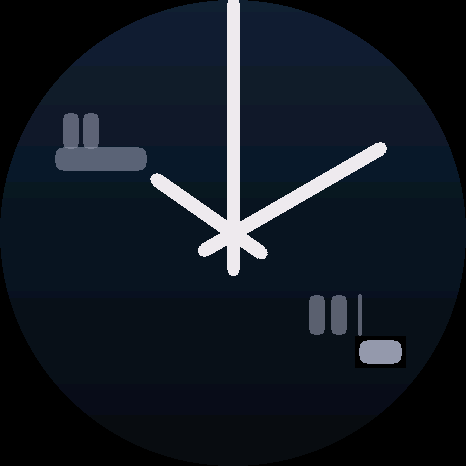
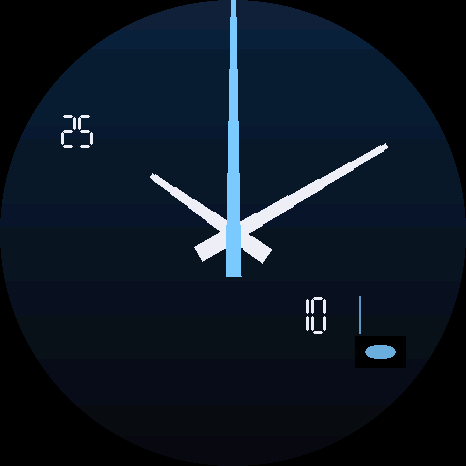
fix: revise templates — clean role-aware original art, 3 solid bases
The generic blanket art made every asset a gray blob (ugly/broken). Rewrite
the generator to be role-aware: background→gradient, pointer→tapered hand,
digit atlas→real 7-seg numerals, marker ring→thin ticks, ambiguous decor→
hidden. Keep only the 3 bases that regenerate cleanly + fully original
(skip:0): Aurora (gradient), Analog (hands+gradient+digit), Data (hands+
complications). Dropped Dual-phase (466px hands don't fit slot → skipped,
retained CMF art) and Digits time (big-digital on black didn't render).

All same-footprint. TEMPLATES list trimmed to the 3.

diff --git a/wfweb/scripts/simplify-templates.ts b/wfweb/scripts/simplify-templates.ts
@@ -1,7 +1,7 @@
-// Gera versões GENÉRICAS/ORIGINAIS dos templates: troca CADA asset do pool por uma forma simples
-// (gradiente p/ fundo grande, barra p/ sprite alto/estreito = ponteiro, retângulo neutro no resto).
-// Substitui o pool INTEIRO (inclui atlas de dígitos), então não sobra arte oficial da CMF.
-// Same-footprint (arte simples comprime pequeno). Re-renderiza o thumbnail do dial modificado.
+// Gera arte ORIGINAL e LIMPA pros templates, ciente do PAPEL de cada asset:
+//   fundo → gradiente | ponteiro → mão afilada | atlas de dígitos → numerais 7-seg reais |
+//   anel de marcas (pequeno, repetido) → tick fino | decorativo ambíguo → transparente.
+// Tudo same-footprint (arte simples comprime pequeno). Re-renderiza thumbnails. Sem arte da CMF.
 import { readFileSync, writeFileSync } from "node:fs";
 import zlib from "node:zlib";
 import { parseStructured, scanAssets } from "../src/codec/parse.js";
@@ -9,86 +9,129 @@ import { rgbaToRasterForCf } from "../src/codec/rgb565.js";
 import { lz4CompressBest, lz4CompressLiteralsOnly } from "../src/codec/lz4.js";
 import { writeU32le } from "../src/codec/bytes.js";
 import { renderAt } from "../src/codec/render.js";
+import type { Layer } from "../src/codec/types.js";
 
 type RGB = [number, number, number];
-const PALETTE: Record<string, [RGB, RGB]> = {
-  "290": [[46, 50, 82], [18, 20, 34]],   // indigo
-  "309": [[64, 22, 22], [16, 16, 20]],   // maroon
-  "353": [[32, 32, 36], [12, 12, 14]],   // graphite
-  "275": [[18, 32, 52], [10, 12, 20]],   // navy
-  "376": [[36, 32, 28], [14, 12, 12]],   // warm charcoal
+const PAL: Record<string, [RGB, RGB, RGB]> = { // [topo, base, acento]
+  "290": [[38, 44, 92], [12, 14, 30], [120, 150, 255]],
+  "309": [[70, 24, 30], [14, 14, 20], [255, 120, 92]],
+  "353": [[26, 28, 36], [10, 10, 14], [220, 224, 235]],
+  "275": [[16, 34, 60], [8, 10, 18], [120, 200, 255]],
+  "376": [[30, 30, 34], [12, 12, 14], [255, 150, 70]],
 };
-const HAND: RGB = [232, 232, 238];
-const MARK: RGB = [148, 154, 170];
+const HAND: RGB = [235, 238, 245];
 
-function gradient(w: number, h: number, top: RGB, bot: RGB): Uint8ClampedArray {
-  const d = new Uint8ClampedArray(w * h * 4);
-  for (let y = 0; y < h; y++) {
-    const t = h <= 1 ? 0 : y / (h - 1);
-    const r = Math.round(top[0] + (bot[0] - top[0]) * t), g = Math.round(top[1] + (bot[1] - top[1]) * t), b = Math.round(top[2] + (bot[2] - top[2]) * t);
-    for (let x = 0; x < w; x++) { const o = (y * w + x) * 4; d[o] = r; d[o + 1] = g; d[o + 2] = b; d[o + 3] = 255; }
+function fillRoundRect(px: Uint8ClampedArray, W: number, H: number, x: number, y: number, w: number, h: number, r: number, c: RGB, alpha = 255) {
+  const x0 = Math.round(x), y0 = Math.round(y), x1 = Math.round(x + w), y1 = Math.round(y + h);
+  for (let yy = y0; yy < y1; yy++) for (let xx = x0; xx < x1; xx++) {
+    if (xx < 0 || xx >= W || yy < 0 || yy >= H) continue;
+    const dx = Math.min(xx - x0, x1 - 1 - xx), dy = Math.min(yy - y0, y1 - 1 - yy);
+    if (dx < r && dy < r) { const ex = r - dx, ey = r - dy; if (ex * ex + ey * ey > r * r) continue; }
+    const o = (yy * W + xx) * 4; const a = alpha / 255;
+    px[o] = Math.round(c[0] * a + px[o] * (1 - a)); px[o + 1] = Math.round(c[1] * a + px[o + 1] * (1 - a));
+    px[o + 2] = Math.round(c[2] * a + px[o + 2] * (1 - a)); px[o + 3] = Math.max(px[o + 3], alpha);
+  }
+}
+// dígito 7-seg (a,f,b,g,e,c,d)
+const SEG: Record<number, number[]> = { 0:[1,1,1,0,1,1,1],1:[0,0,1,0,0,1,0],2:[1,0,1,1,1,0,1],3:[1,0,1,1,0,1,1],4:[0,1,1,1,0,1,0],5:[1,1,0,1,0,1,1],6:[1,1,0,1,1,1,1],7:[1,0,1,0,0,1,0],8:[1,1,1,1,1,1,1],9:[1,1,1,1,0,1,1] };
+function drawDigit(px: Uint8ClampedArray, W: number, H: number, dw: number, dh: number, ch: number, c: RGB) {
+  const s = SEG[ch]; if (!s) return;
+  const m = Math.min(dw, dh);
+  const t = Math.max(2, Math.round(m * 0.14));                 // espessura
+  const padX = Math.round(dw * 0.22), padY = Math.round(dh * 0.12);
+  const x1 = padX, x2 = dw - padX, y1 = padY, y2 = dh - padY, ym = dh / 2;
+  const hbar = (xa: number, xb: number, y: number) => fillRoundRect(px, W, H, xa, y - t / 2, xb - xa, t, t / 2, c);
+  const vbar = (x: number, ya: number, yb: number) => fillRoundRect(px, W, H, x - t / 2, ya, t, yb - ya, t / 2, c);
+  if (s[0]) hbar(x1, x2, y1); if (s[1]) vbar(x1, y1, ym); if (s[2]) vbar(x2, y1, ym);
+  if (s[3]) hbar(x1, x2, ym); if (s[4]) vbar(x1, ym, y2); if (s[5]) vbar(x2, ym, y2); if (s[6]) hbar(x1, x2, y2);
+}
+function gradient(W: number, H: number, top: RGB, bot: RGB): Uint8ClampedArray {
+  const d = new Uint8ClampedArray(W * H * 4);
+  for (let y = 0; y < H; y++) { const t = H <= 1 ? 0 : y / (H - 1); const r = Math.round(top[0] + (bot[0] - top[0]) * t), g = Math.round(top[1] + (bot[1] - top[1]) * t), b = Math.round(top[2] + (bot[2] - top[2]) * t);
+    for (let x = 0; x < W; x++) { const o = (y * W + x) * 4; d[o] = r; d[o + 1] = g; d[o + 2] = b; d[o + 3] = 255; } }
+  return d;
+}
+function hand(W: number, H: number, c: RGB): Uint8ClampedArray {
+  const d = new Uint8ClampedArray(W * H * 4);
+  const cx = W / 2, baseW = Math.max(4, W * 0.5), tipW = Math.max(2, W * 0.14);
+  const tail = Math.round(H * 0.12); // pequena cauda além do pivô (base)
+  for (let y = 0; y < H; y++) {
+    const t = y / (H - 1);                       // 0 topo(ponta) .. 1 base
+    if (y > H - 1 - tail * 0) {}                 // (mão simples afilada)
+    const wline = tipW + (baseW - tipW) * t;
+    const x0 = Math.round(cx - wline / 2), x1 = Math.round(cx + wline / 2);
+    for (let x = x0; x <= x1; x++) { if (x < 0 || x >= W) continue; const o = (y * W + x) * 4; d[o] = c[0]; d[o + 1] = c[1]; d[o + 2] = c[2]; d[o + 3] = 255; }
   }
   return d;
 }
-function roundRect(w: number, h: number, x0: number, y0: number, rw: number, rh: number, rad: number, c: RGB, alpha: number): Uint8ClampedArray {
-  const d = new Uint8ClampedArray(w * h * 4);
-  const x1 = x0 + rw, y1 = y0 + rh;
-  for (let y = 0; y < h; y++) for (let x = 0; x < w; x++) {
-    if (x < x0 || x >= x1 || y < y0 || y >= y1) continue;
-    const dx = Math.min(x - x0, x1 - 1 - x), dy = Math.min(y - y0, y1 - 1 - y);
-    if (dx < rad && dy < rad) { const ex = rad - dx, ey = rad - dy; if (ex * ex + ey * ey > rad * rad) continue; }
-    const o = (y * w + x) * 4; d[o] = c[0]; d[o + 1] = c[1]; d[o + 2] = c[2]; d[o + 3] = alpha;
-  }
+function tick(W: number, H: number, c: RGB): Uint8ClampedArray {
+  const d = new Uint8ClampedArray(W * H * 4);
+  const pad = Math.round(Math.min(W, H) * 0.28);
+  fillRoundRect(d, W, H, pad, pad, W - 2 * pad, H - 2 * pad, Math.min(W, H) * 0.3, c, 220);
   return d;
 }
-/** Arte simples p/ um asset, escolhida pelas dimensões (sem depender de layer). */
-function artForAsset(id: string, w: number, h: number): Uint8ClampedArray {
-  if (w >= 300 && h >= 300) { const [t, b] = PALETTE[id]; return gradient(w, h, t, b); } // fundo
-  if (h >= w * 2.2 && h >= 60) { const bw = Math.max(3, Math.round(w * 0.42)); return roundRect(w, h, Math.round((w - bw) / 2), 0, bw, h, Math.min(bw, h) / 2, HAND, 255); } // ponteiro
-  const pad = Math.max(1, Math.round(Math.min(w, h) * 0.12));
-  return roundRect(w, h, pad, pad, w - 2 * pad, h - 2 * pad, Math.min(w, h) * 0.22, MARK, 150); // marcador
-}
 
-function crc32(buf: Uint8Array): number { let c = ~0; for (let i = 0; i < buf.length; i++) { c ^= buf[i]; for (let k = 0; k < 8; k++) c = (c >>> 1) ^ (0xEDB88320 & -(c & 1)); } return (~c) >>> 0; }
-function png(rgba: Uint8Array, w: number, h: number): Uint8Array {
-  const raw = Buffer.alloc((w * 4 + 1) * h);
-  for (let y = 0; y < h; y++) { raw[y * (w * 4 + 1)] = 0; Buffer.from(rgba.buffer, rgba.byteOffset + y * w * 4, w * 4).copy(raw, y * (w * 4 + 1) + 1); }
-  const idat = zlib.deflateSync(raw);
-  const chunk = (type: string, data: Buffer) => { const len = Buffer.alloc(4); len.writeUInt32BE(data.length); const t = Buffer.from(type); const crc = Buffer.alloc(4); crc.writeUInt32BE(crc32(Buffer.concat([t, data]))); return Buffer.concat([len, t, data, crc]); };
-  const ihdr = Buffer.alloc(13); ihdr.writeUInt32BE(w, 0); ihdr.writeUInt32BE(h, 4); ihdr[8] = 8; ihdr[9] = 6;
-  return Buffer.concat([Buffer.from([137, 80, 78, 71, 13, 10, 26, 10]), chunk("IHDR", ihdr), chunk("IDAT", idat), chunk("IEND", Buffer.alloc(0))]);
-}
+// ---- PNG ----
+function crc32(b: Uint8Array){let c=~0;for(let i=0;i<b.length;i++){c^=b[i];for(let k=0;k<8;k++)c=(c>>>1)^(0xEDB88320&-(c&1));}return(~c)>>>0;}
+function png(rg: Uint8Array, w: number, h: number){const rw=Buffer.alloc((w*4+1)*h);for(let y=0;y<h;y++){rw[y*(w*4+1)]=0;Buffer.from(rg.buffer,rg.byteOffset+y*w*4,w*4).copy(rw,y*(w*4+1)+1);}const idat=zlib.deflateSync(rw);const ch=(t:string,dd:Buffer)=>{const L=Buffer.alloc(4);L.writeUInt32BE(dd.length);const T=Buffer.from(t);const c=Buffer.alloc(4);c.writeUInt32BE(crc32(Buffer.concat([T,dd])));return Buffer.concat([L,T,dd,c]);};const ih=Buffer.alloc(13);ih.writeUInt32BE(w,0);ih.writeUInt32BE(h,4);ih[8]=8;ih[9]=6;return Buffer.concat([Buffer.from([137,80,78,71,13,10,26,10]),ch("IHDR",ih),ch("IDAT",idat),ch("IEND",Buffer.alloc(0))]);}
 
 const DIR = "public/templates";
-for (const id of ["290", "309", "353", "275", "376"]) {
-  const raw = new Uint8Array(readFileSync(`${DIR}/${id}.bin`));
-  const out = raw.slice();
-  let replaced = 0, skipped = 0;
-  for (const [off, cf, w, h, len] of scanAssets(raw)) {
-    if (cf === 1) { skipped++; continue; } // JPEG: não re-encoda aqui (nenhum nos 5 templates)
-    const raster = rgbaToRasterForCf(artForAsset(id, w, h), w, h, cf);
-    let comp = lz4CompressBest(raster);
-    if (comp.length > len) { const lit = lz4CompressLiteralsOnly(raster); if (lit.length < comp.length) comp = lit; }
-    if (comp.length > len) {
-      // arte simples não coube no slot minúsculo → ERASE (transparente, comprime pra ~nada) p/ não
-      // deixar nenhum pixel da CMF. Se nem o transparente couber (raríssimo), aí sim mantém.
-      const empty = lz4CompressBest(rgbaToRasterForCf(new Uint8ClampedArray(w * h * 4), w, h, cf));
-      if (empty.length > len) { skipped++; continue; }
-      comp = empty;
-    }
-    writeU32le(out, off + 4, comp.length);
-    out.set(comp, off + 8);
-    for (let b = off + 8 + comp.length; b < off + 8 + len; b++) out[b] = 0; // zera cauda
-    replaced++;
+for (const id of ["290", "309", "275"]) {
+  const raw = new Uint8Array(readFileSync(`public/corpus/bin/${id}.bin`));
+  const d = parseStructured(raw);
+  const [top, bot, accent] = PAL[id];
+  const assets = scanAssets(raw); // [off,cf,w,h,len]
+  const byOff = new Map(assets.map((a) => [a[0], a]));
+
+  // papéis por offset
+  const bgOff = d.layers.find((l) => l.kind === "background" && !l.aod)?.assetOff ?? -1;
+  const handOff = new Map<number, RGB>();
+  for (const l of d.layers) if (l.kind === "pointer") handOff.set(l.assetOff, l.mock === "seconds" ? accent : HAND);
+  // frames de SHEETS indexados por valor (anel de marcas / posicional) → viram TICKS, não dígitos.
+  const u32 = (o: number) => (raw[o] | (raw[o + 1] << 8) | (raw[o + 2] << 16) | (raw[o + 3] << 24)) >>> 0;
+  const tickOff = new Set<number>();
+  for (const l of d.layers) {
+    if ((l.frames ?? 1) <= 1 || l.aod) continue;
+    let off = l.assetOff;
+    for (let k = 0; k < l.frames! && byOff.has(off); k++) { tickOff.add(off); off += 8 + u32(off + 4); }
   }
-  // thumbnail do dial modificado (10:10) + máscara circular preta
-  const d = parseStructured(out);
-  const img = renderAt(d, 10, 10, 0, undefined, false);
+  // atlas de dígitos = run de assets consecutivos com mesmo cf/dims, tamanho 10..14, FORA dos sheets.
+  const sorted = [...assets].sort((a, b) => a[0] - b[0]);
+  const glyphIndex = new Map<number, number>();
+  for (let i = 0; i < sorted.length; i++) {
+    const [off0, cf, w, h] = sorted[i];
+    if (w < 8 || h < 8 || w > 220 || h > 220 || tickOff.has(off0)) continue;
+    let j = i; while (j + 1 < sorted.length && sorted[j + 1][1] === cf && sorted[j + 1][2] === w && sorted[j + 1][3] === h && !tickOff.has(sorted[j + 1][0])) j++;
+    const runLen = j - i + 1;
+    if (runLen >= 10 && runLen <= 14) { for (let k = i; k <= j; k++) glyphIndex.set(sorted[k][0], k - i); i = j; }
+  }
+
+  const out = raw.slice();
+  let stats = { bg: 0, hand: 0, digit: 0, tick: 0, hidden: 0, skip: 0 };
+  for (const [off, cf, w, h, len] of assets) {
+    if (cf === 1) { stats.skip++; continue; }
+    let art: Uint8ClampedArray;
+    if (off === bgOff) { art = gradient(w, h, top, bot); stats.bg++; }
+    else if (handOff.has(off)) { art = hand(w, h, handOff.get(off)!); stats.hand++; }
+    else if (tickOff.has(off)) { art = tick(w, h, accent); stats.tick++; }             // frame de anel → tick
+    else if (glyphIndex.has(off)) { const gi = glyphIndex.get(off)!; art = new Uint8ClampedArray(w * h * 4); if (gi < 10) drawDigit(art, w, h, w, h, gi, [235, 238, 245]); stats.digit++; }
+    else if (w <= 60 && h <= 60) { art = tick(w, h, accent); stats.tick++; }         // marca pequena → tick
+    else { art = new Uint8ClampedArray(w * h * 4); stats.hidden++; }                   // decorativo grande → some
+    let comp = lz4CompressBest(rgbaToRasterForCf(art, w, h, cf));
+    if (comp.length > len) { const lit = lz4CompressLiteralsOnly(rgbaToRasterForCf(art, w, h, cf)); if (lit.length < comp.length) comp = lit; }
+    if (comp.length > len) { const empty = lz4CompressBest(rgbaToRasterForCf(new Uint8ClampedArray(w * h * 4), w, h, cf)); if (empty.length <= len) comp = empty; else { stats.skip++; continue; } }
+    writeU32le(out, off + 4, comp.length); out.set(comp, off + 8);
+    for (let b = off + 8 + comp.length; b < off + 8 + len; b++) out[b] = 0;
+  }
+
+  // thumbnail (10:10) + máscara circular
+  const d2 = parseStructured(out);
+  const img = renderAt(d2, 10, 10, 0, undefined, false);
   const dim = img.w, cx = (dim - 1) / 2, r2 = (dim / 2) ** 2;
   const buf = new Uint8Array(img.data);
   for (let y = 0; y < dim; y++) for (let x = 0; x < dim; x++) { const dx = x - cx, dy = y - cx; if (dx * dx + dy * dy > r2) { const o = (y * dim + x) * 4; buf[o] = buf[o + 1] = buf[o + 2] = 0; buf[o + 3] = 255; } }
   writeFileSync(`${DIR}/${id}.png`, png(buf, dim, dim));
   writeFileSync(`${DIR}/${id}.bin`, out);
-  console.log(`${id}: replaced ${replaced} assets, skipped ${skipped}, size ${out.length}==${raw.length}? ${out.length === raw.length}`);
+  console.log(`${id}: ${JSON.stringify(stats)} size ${out.length}==${raw.length}? ${out.length === raw.length}`);
 }
 console.log("done.");

diff --git a/wfweb/src/ui/app.ts b/wfweb/src/ui/app.ts
@@ -122,11 +122,9 @@ export class App {
 
   /** Catálogo de templates (bases boas p/ re-skin in-place), servidos de /templates. */
   private static readonly TEMPLATES: Array<{ id: string; name: string; style: string }> = [
-    { id: "290", name: "Gradual", style: "Fundo / foto — maior canvas re-skinável" },
-    { id: "309", name: "Gradient", style: "Analógico + fundo custom" },
-    { id: "353", name: "Dual-phase", style: "Analógico clássico (números 1–12)" },
-    { id: "275", name: "SlopeTime", style: "Rico em dados (temp/passos/kcal)" },
-    { id: "376", name: "Digits time", style: "Digital grande" },
+    { id: "290", name: "Aurora", style: "Fundo em gradiente — troque por foto/arte" },
+    { id: "309", name: "Analog", style: "Analógico limpo (ponteiros + gradiente)" },
+    { id: "275", name: "Data", style: "Analógico + complicações (temp/passos)" },
   ];
 
   private openTemplateGallery(): void {